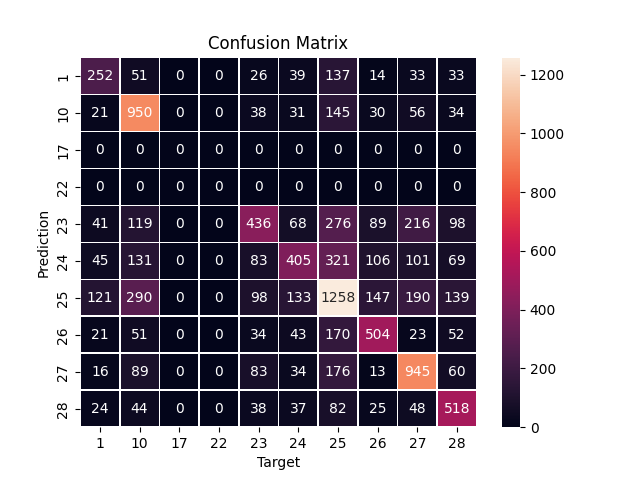
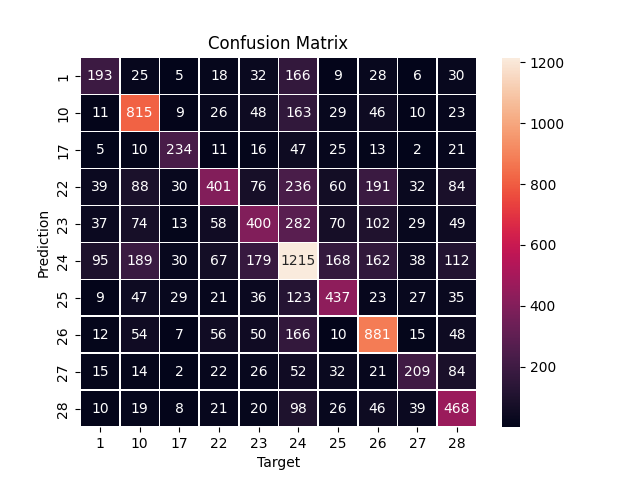
results

diff --git a/src/metrics.py b/src/metrics.py
@@ -2,6 +2,7 @@ import numpy as np
 import seaborn as sns
 import matplotlib.pylab as plt
 import pandas as pd
+from sklearn.metrics import classification_report
 
 category = {
     1: 0,
@@ -25,7 +26,7 @@ category = {
 
 confusion_labels = list(category.keys())
 
-data = [[252, 51, 0, 0, 26, 39, 137, 14, 33, 33], [21, 950, 0, 0, 38, 31, 145, 30, 56, 34], [0, 0, 0, 0, 0, 0, 0, 0, 0, 0], [0, 0, 0, 0, 0, 0, 0, 0, 0, 0], [41, 119, 0, 0, 436, 68, 276, 89, 216, 98], [45, 131, 0, 0, 83, 405, 321, 106, 101, 69], [121, 290, 0, 0, 98, 133, 1258, 147, 190, 139], [21, 51, 0, 0, 34, 43, 170, 504, 23, 52], [16, 89, 0, 0, 83, 34, 176, 13, 945, 60], [24, 44, 0, 0, 38, 37, 82, 25, 48, 518]]
+data = [[193, 25, 5, 18, 32, 166, 9, 28, 6, 30], [11, 815, 9, 26, 48, 163, 29, 46, 10, 23], [5, 10, 234, 11, 16, 47, 25, 13, 2, 21], [39, 88, 30, 401, 76, 236, 60, 191, 32, 84], [37, 74, 13, 58, 400, 282, 70, 102, 29, 49], [95, 189, 30, 67, 179, 1215, 168, 162, 38, 112], [9, 47, 29, 21, 36, 123, 437, 23, 27, 35], [12, 54, 7, 56, 50, 166, 10, 881, 15, 48], [15, 14, 2, 22, 26, 52, 32, 21, 209, 84], [10, 19, 8, 21, 20, 98, 26, 46, 39, 468]]
 ax = sns.heatmap(data, linewidth=0.5, annot=True, fmt='')
 ax.set_title('Confusion Matrix')
 ax.set_xlabel("Target")
@@ -33,4 +34,17 @@ ax.set_ylabel("Prediction")
 ax.set_xticklabels(confusion_labels)
 ax.set_yticklabels(confusion_labels)
 plt.savefig('../results/confusion_matrix.png')
+
+y = []
+y_pred = []
+for i in range(len(data)):
+    for j in range(len(data[i])):
+        count = data[i][j]
+        for k in range(count):
+            y.append(i)
+            y_pred.append(j)
+
+confusion_labels =  ["Film & Animation", "Music", "Sports", "People & Blogs", "Comedy", "Entertainment", "News & Politics", "How-to & Style", "Education", "Science & Technology"]
+
+print(classification_report(y, y_pred, target_names=confusion_labels))
 
